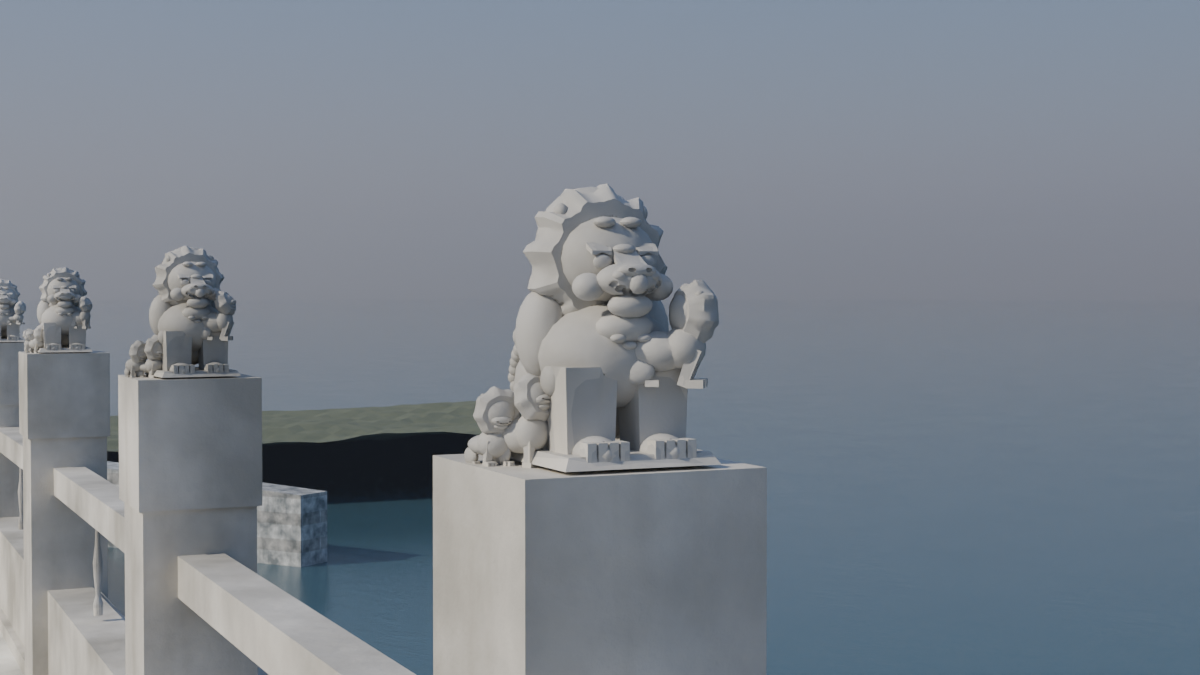
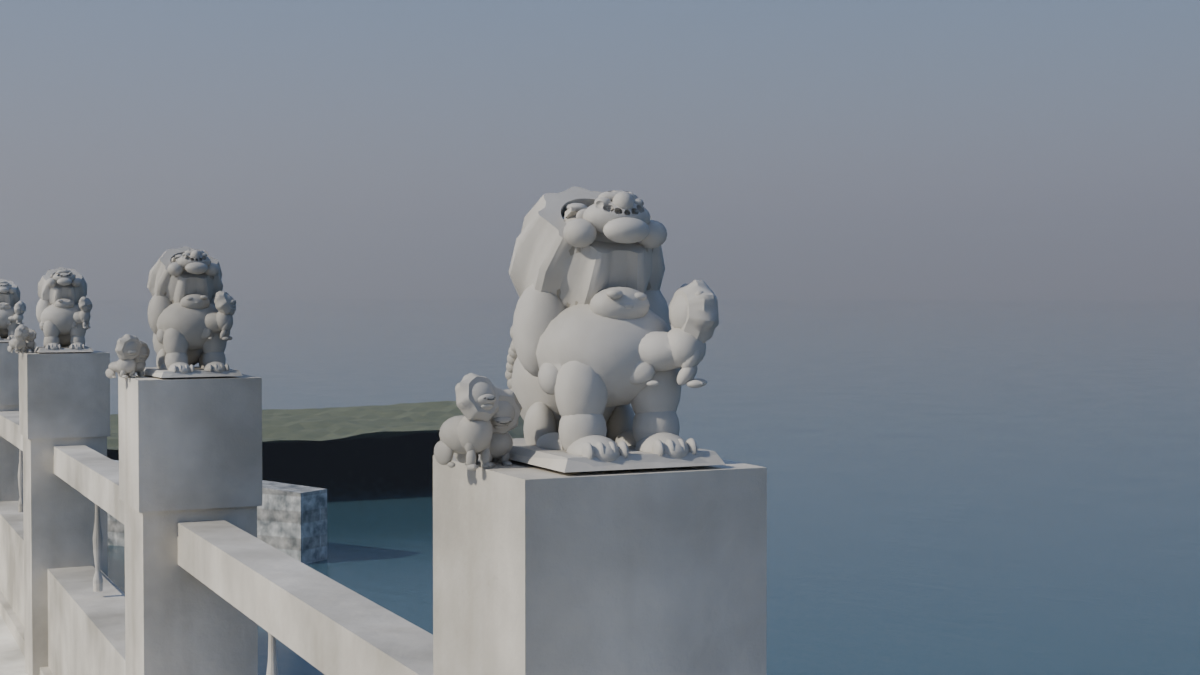
fix(e30): 狮回炉两轮——前肢棱台改椭圆柱(墓碑板)/幼狮槽0腿间空档生理无解改坐台母题(Z形浮件根除)/趾扁球化; BVH法线+平色槽位诊断法定位浮件

diff --git a/e30_shikongqiao_video/3d/lions2.py b/e30_shikongqiao_video/3d/lions2.py
@@ -225,14 +225,14 @@ def _sculpt_adult_parts(acc):
     ell((0.10, 0, 0.38), (0.20, 0.26, 0.19))
     for sy in (1, -1):
         ell((0.13, sy * 0.225, 0.30), (0.055, 0.045, 0.06))    # 肘凸
-    # ── 前肢: 粗短立柱(0.35H) + 前扑大爪 + 趾 ──
+    # ── 前肢: 圆柱立柱(回炉: 旧棱台四平面锐边读作"墓碑平板") + 前扑大爪 + 趾 ──
     for sy in (1, -1):
-        add(_taper((0.19, sy * 0.14, 0.02), (0.16, 0.18),
-                   (0.185, sy * 0.14, 0.35), (0.18, 0.20)), P)
+        ell((0.19, sy * 0.14, 0.26), (0.085, 0.095, 0.14))     # 腿上段(深埋胸底)
+        ell((0.20, sy * 0.14, 0.12), (0.075, 0.085, 0.10))     # 腿下段
         ell((0.27, sy * 0.13, 0.05), (0.13, 0.085, 0.06))      # 爪
-        for tk in range(4):                                     # 趾(并排小盒)
-            box((0.36, sy * 0.13 + (tk - 1.5) * 0.042, 0.06),
-                (0.065, 0.034, 0.07))
+        for tk in range(4):                                     # 趾(并排扁球, 回炉: 旧方块)
+            ell((0.36, sy * 0.13 + (tk - 1.5) * 0.042, 0.06),
+                (0.033, 0.017, 0.035), _SEG_S, _RING_S)
     # ── 头颈: 昂首(_hp: 绕颅底上仰 _HP+前移) 颅 + 咽喉桥 + 颈背鬃(体侧锚, 不转) ──
     ell(_hp((0.10, 0, 0.73)), (0.15, 0.19, 0.155))             # 颅
     ell((-0.02, 0, 0.60), (0.115, 0.16, 0.14))                 # 咽喉(颏-胸桥, 不转)
@@ -300,8 +300,7 @@ def _sculpt_adult_parts(acc):
     for sy in (1, -1):
         neg_ell(_hp((0.372, sy * 0.032, 0.688)), (0.014, 0.015, 0.009))   # 鼻孔(鼻头前坡)
         neg_ell(_hp((0.252, sy * 0.09, 0.748)), (0.010, 0.028, 0.008))    # 眼睑上刻(眉脊下)
-        for ty in (-0.042, 0.0, 0.042):                              # 前爪趾缝
-            add(_box((0.365, sy * 0.13 + ty, 0.06), (0.032, 0.008, 0.075)), N)
+        # 前爪趾缝已随趾改扁球由天然间隙承担, 负刀切除(回炉)
         for ty in (-0.024, 0.024):                                   # 后爪趾缝
             add(_box((0.115, sy * 0.155 + ty, 0.05), (0.026, 0.006, 0.055)), N)
     # ── 最后并入: 眼球(小鼓眼, 半嵌颅面埋眉下, 无黑珠, 随昂首) ──
@@ -537,19 +536,22 @@ def _sculpt_cub_parts(kind):
                      base=(0.135, 0.19, 0.19, 0.155),
                      amp=(0.006, 0.022, 0.022, 0.011), r_in=0.08))
     # ── 前肢短粗(绕底枢轴前摆: 端头始终衔接胸, 摆向前上作扒附) + 爪 + 趾 ──
+    # 回炉: 腿由棱台改双椭圆柱(棱台四平面侧视读作平板)
     for sy in (1, -1):
-        bpart(_xform(_taper((0.19, sy * 0.078, 0.02), (0.065, 0.055),
-                            (0.155, sy * 0.078, 0.32), (0.085, 0.065)),
-                     Matrix.Rotation(lean, 4, 'Y'), (0.17, sy * 0.078, 0.17)))
+        pivot = (0.17, sy * 0.078, 0.17)
+        bpart(_xform(_ell((0.155, sy * 0.078, 0.24), (0.05, 0.048, 0.10)),
+                     Matrix.Rotation(lean, 4, 'Y'), pivot))
+        bpart(_xform(_ell((0.175, sy * 0.078, 0.11), (0.045, 0.042, 0.09)),
+                     Matrix.Rotation(lean, 4, 'Y'), pivot))
     px = 0.18 + 0.03 * (1.0 if kind in (2, 3) else 0.0)
     for sy in (1, -1):
-        bpart(_box((px, sy * 0.078, 0.042), (0.11, 0.075, 0.065)))
+        bpart(_ell((px, sy * 0.078, 0.042), (0.055, 0.038, 0.033)))
         for ty in (0.020, 0.0, -0.020):
-            bpart(_box((px + 0.042, sy * 0.075 + ty, 0.044), (0.024, 0.016, 0.030)))
+            bpart(_ell((px + 0.040, sy * 0.075 + ty, 0.044), (0.014, 0.008, 0.016)))
     # ── 后腿折叠(短) + 爪 ──
     for sy in (1, -1):
         bpart(_ell((-0.15, sy * 0.105, 0.14 - lie * 0.04), (0.115, 0.05, 0.105)))
-        bpart(_box((-0.05, sy * 0.105, 0.045 - lie * 0.02), (0.085, 0.05, 0.05)))
+        bpart(_ell((-0.05, sy * 0.105, 0.045 - lie * 0.02), (0.043, 0.025, 0.025)))
     # ── 尾(短, 贴臀) ──
     ty_o = 0.105
     bpart(_ell((-0.21, ty_o, 0.20 - lie * 0.06), (0.030, 0.024, 0.045)))
@@ -562,9 +564,7 @@ def _sculpt_cub_parts(kind):
         xx = 0.105 + 0.07 * math.sqrt(max(0.04, 1.0 - ((zz + 0.045) / 0.048) ** 2
                                           - (yy / 0.09) ** 2)) - 0.010
         hpart(_ell((xx, yy, zz), (0.016, 0.015, 0.008)), N)
-    for sy in (1, -1):
-        for ty in (-0.016, 0.016):
-            bneg(_box((px + 0.050, sy * 0.075 + ty, 0.047), (0.026, 0.006, 0.030)))
+    # 前肢趾缝负刀已随爪/趾椭球化切除(回炉: 方爪上凿矩形孔是"悬空 Z 片"观感来源)
     return P, N, F
 
 
@@ -632,10 +632,10 @@ def place_lions(spots, material=None, main_H=0.32, cub_H=0.15):
         #  scale_mul, yaw 外转角)。全部深嵌母体表面(扒胸/怀中/伏臀/贴腹),
         # 半露浮雕感 —— 不再落地独立摆放(九审"幼狮像独立玩偶"整改)。
         cub_slots = (
-            ( 0.25, 0.140, -0.010, 0.72, 0.35),   # 0 攀爬: 藏母前肢后探首扒胸
+            ( 0.45, 0.200, -0.005, 0.72, 0.35),   # 0 攀爬→坐台(回炉2: 腿间空档无法容纳整狮, 移母爪前台面全接地, 杜绝悬空)
             ( 0.37, 0.075, -0.010, 0.62, 0.00),   # 1 怀中伏: 胸拱下双爪间探首(齐爪线)
             (-0.26, 0.210,  0.280, 0.80, 0.95),   # 2 伏臀: 伏母臀侧, 头外转
-            (-0.04, 0.300,  0.300, 0.68, 1.30),   # 3 贴伏: 压肩鬃下侧腹(浮雕)
+            (-0.04, 0.160,  0.260, 0.68, 1.30),   # 3 贴伏: 压肩鬃下侧腹(回炉: v0.30→0.16/z0.30→0.26 内收贴体+爪椭球化, 杜绝悬空爪盒)
         )
         for c_idx in range(n_cubs):
             u_off, v_off, zu, scale_mul, yaw_c = cub_slots[c_idx]
